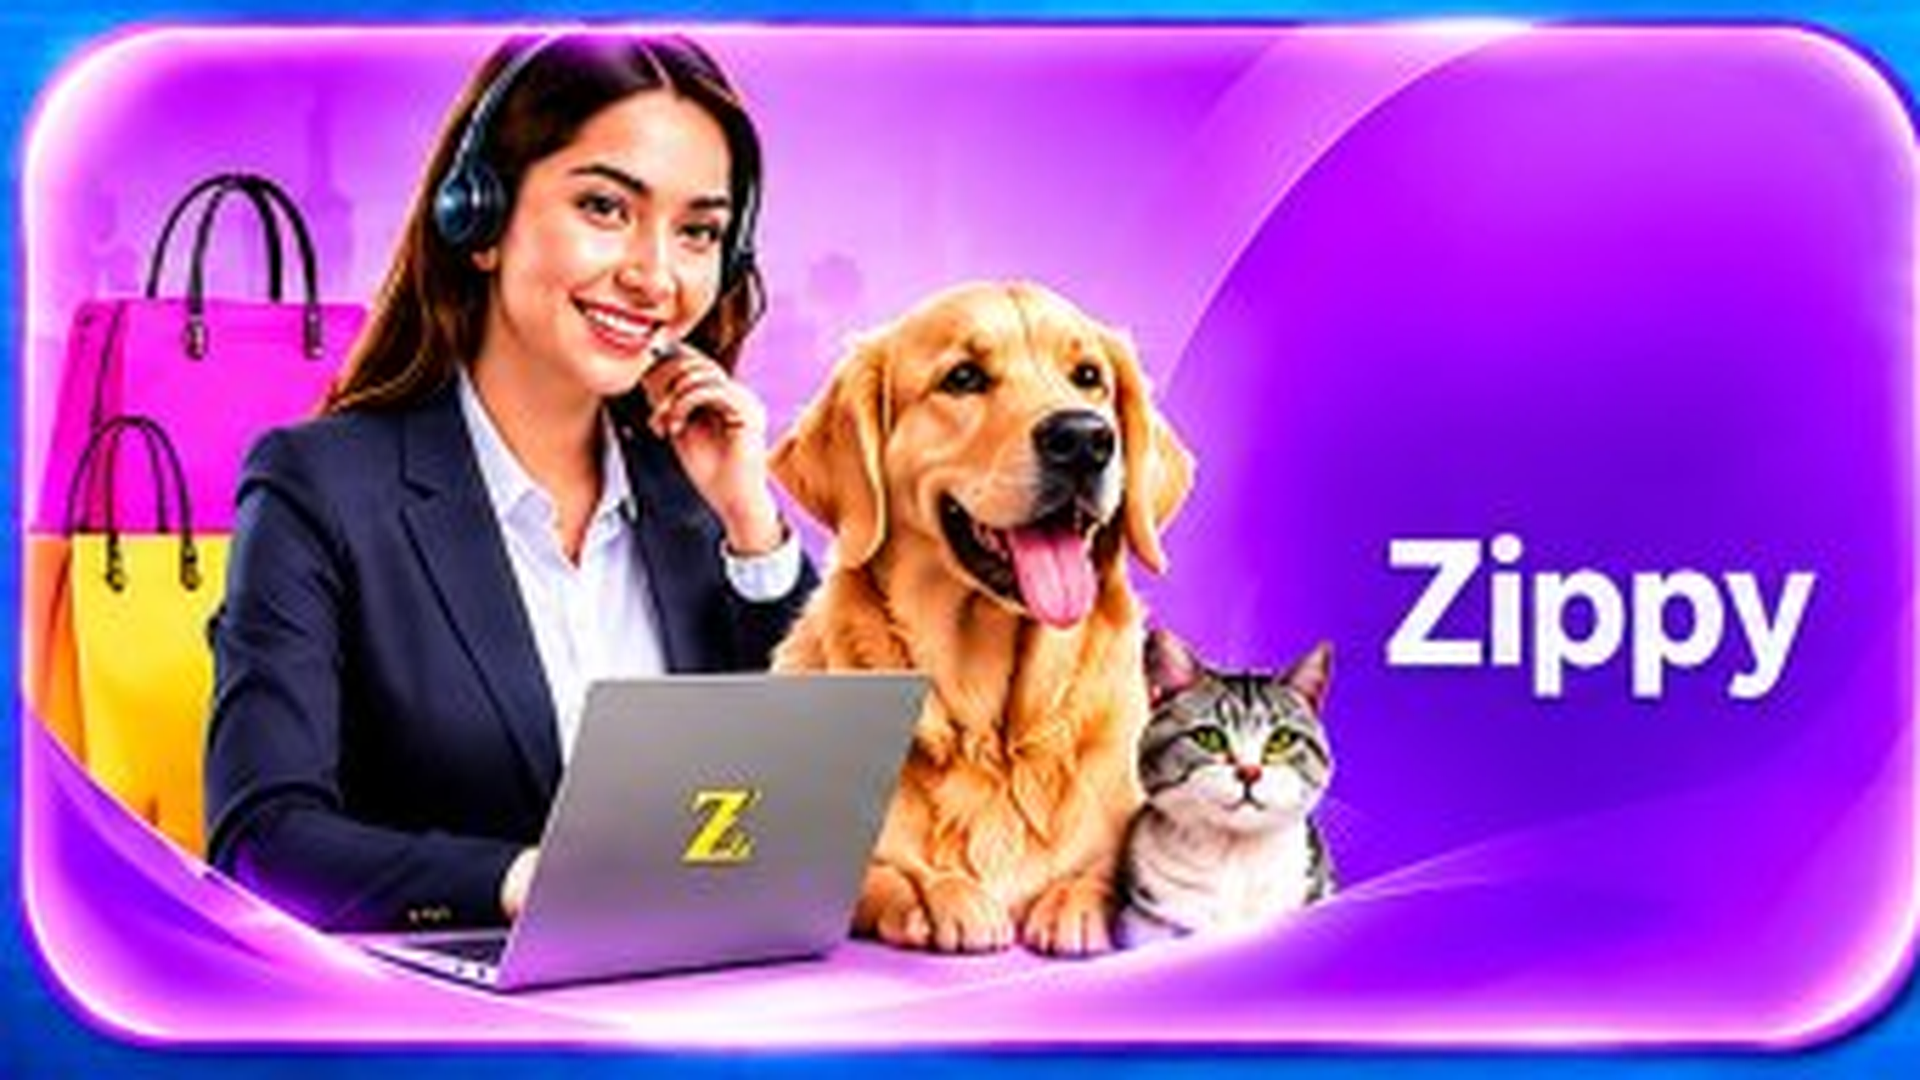
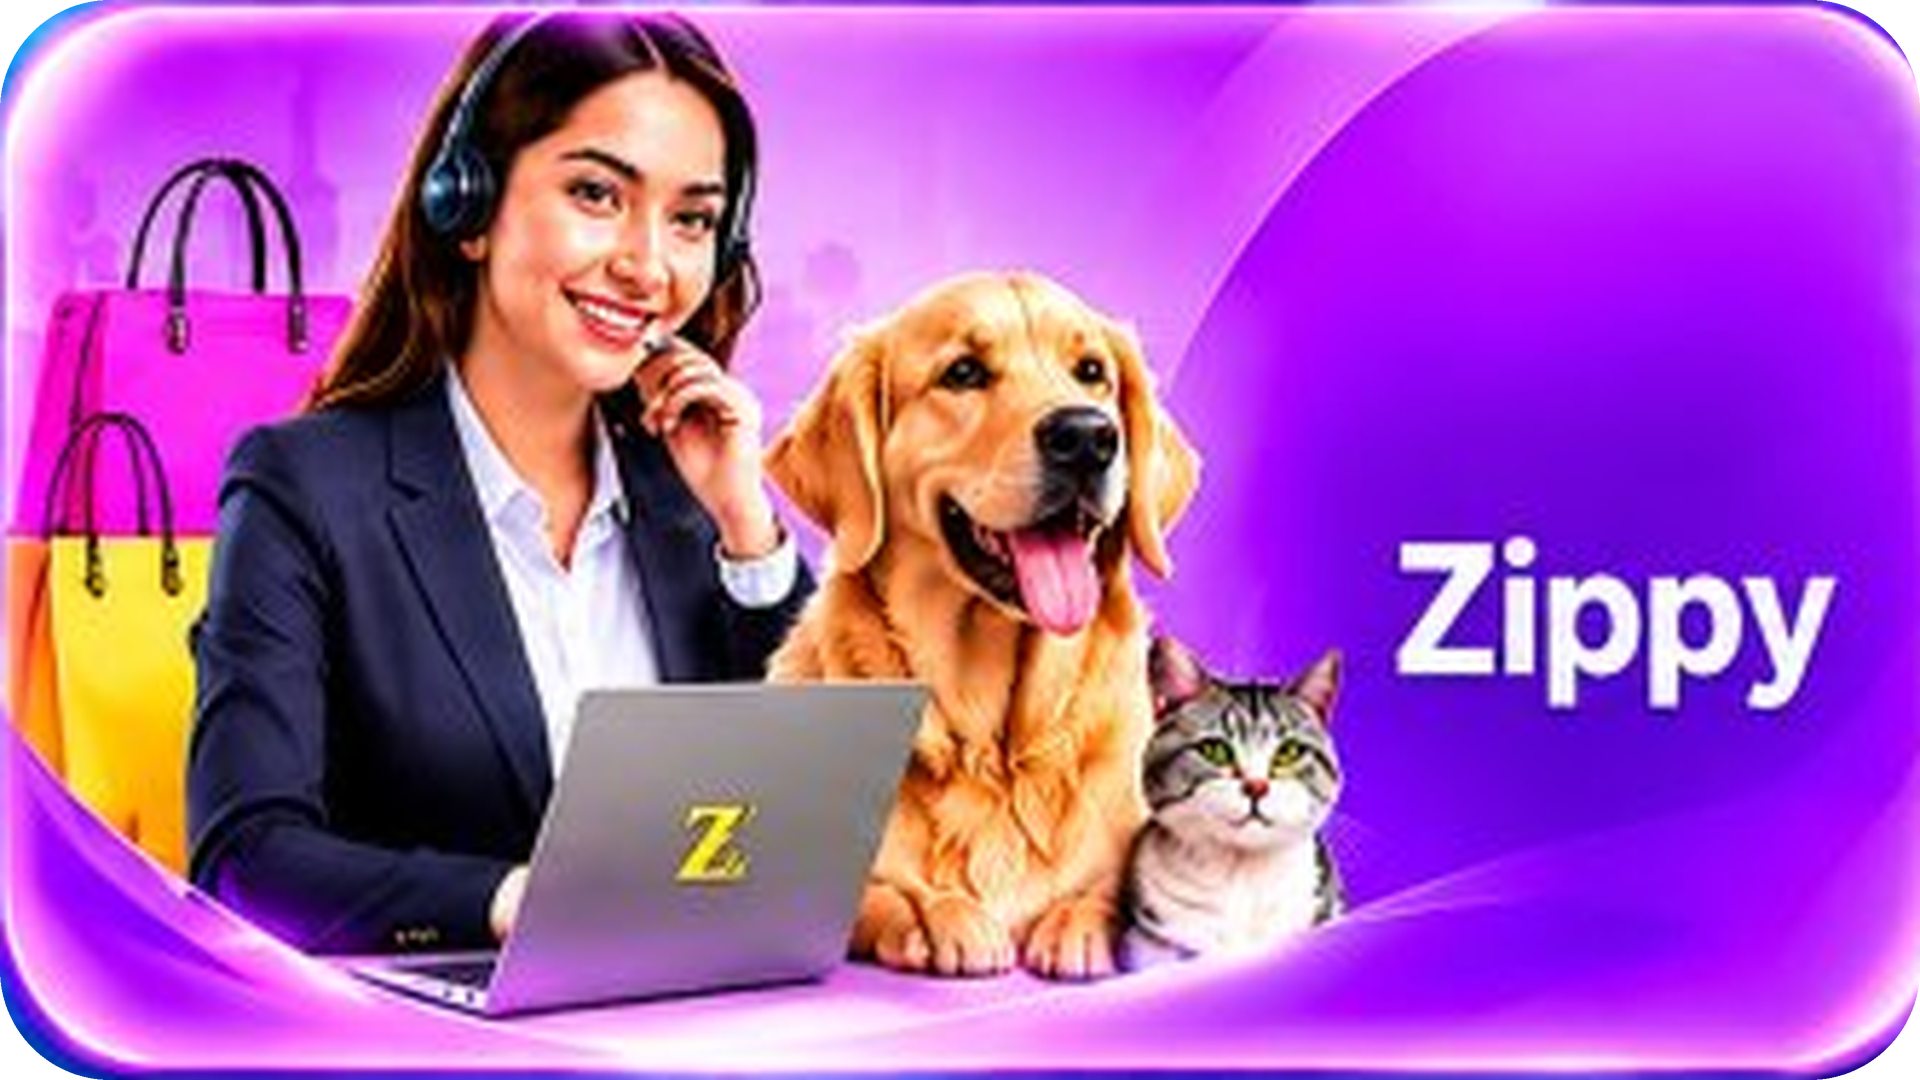
Polish card system: exact 3x2 CSS Grid, 20px border radius, 16px gaps, perfect image edge clipping, and soft neon glow

diff --git a/css/style.css b/css/style.css
@@ -171,11 +171,11 @@ html, body {
 .crm-cards-grid {
   width: 100%;
   display: grid;
-  grid-template-columns: repeat(3, 1fr);
-  /* Consistent horizontal and vertical gaps */
-  gap: clamp(10px, 1.4vh, 18px) clamp(12px, 1.5vw, 22px);
-  align-items: center;
+  grid-template-columns: repeat(3, minmax(0, 1fr));
+  gap: 16px;
+  align-items: stretch;
   justify-content: center;
+  box-sizing: border-box;
 }
 
 /* ==============================================================================
@@ -186,23 +186,24 @@ html, body {
   width: 100%;
   /* Strict 16:9 aspect ratio */
   aspect-ratio: 16 / 9;
-  border-radius: 22px;
+  border-radius: 20px;
   overflow: hidden;
+  box-sizing: border-box;
   display: block;
   text-decoration: none;
   cursor: pointer;
   outline: none;
   
-  /* Exactly ONE subtle outer border matching card accent glow and blending with background */
-  border: 2px solid rgba(255, 255, 255, 0.6);
+  /* Subtle, soft, professional border matching card accent glow */
+  border: 1.5px solid rgba(255, 255, 255, 0.45);
   box-shadow: 
-    0 10px 24px rgba(0, 0, 0, 0.35),
-    0 0 14px var(--card-glow);
+    0 8px 20px rgba(0, 0, 0, 0.28),
+    0 0 12px var(--card-glow);
   
   /* Smooth subtle hover zoom & glowing border transitions */
-  transition: transform 0.28s cubic-bezier(0.16, 1, 0.3, 1),
-              box-shadow 0.28s ease,
-              border-color 0.28s ease;
+  transition: transform 0.26s cubic-bezier(0.16, 1, 0.3, 1),
+              box-shadow 0.26s ease,
+              border-color 0.26s ease;
   will-change: transform;
 }
 
@@ -217,21 +218,22 @@ html, body {
   width: 100%;
   height: 100%;
   object-fit: cover;
+  border-radius: 18px;
   display: block;
-  border-radius: 22px;
   pointer-events: none;
-  transition: transform 0.35s ease;
+  transition: transform 0.32s ease;
+  image-rendering: -webkit-optimize-contrast;
 }
 
 /* ==============================================================================
    SUBTLE CARD HOVER GLOW & SMOOTH TRANSITIONS
    ============================================================================== */
 .crm-card:hover {
-  transform: translateY(-5px) scale(1.02);
-  border-color: var(--card-glow);
+  transform: translateY(-4px) scale(1.015);
+  border-color: rgba(255, 255, 255, 0.8);
   box-shadow: 
-    0 16px 36px rgba(0, 0, 0, 0.4),
-    0 0 24px var(--card-glow);
+    0 12px 28px rgba(0, 0, 0, 0.35),
+    0 0 18px var(--card-glow);
 }
 
 .crm-card:hover .card-bg-img {
@@ -361,7 +363,7 @@ html, body {
   }
   
   .crm-cards-grid {
-    grid-template-columns: repeat(2, 1fr);
+    grid-template-columns: repeat(2, minmax(0, 1fr));
     max-width: 680px;
     gap: 16px;
   }
@@ -370,7 +372,7 @@ html, body {
 /* Mobile Phones (Max 600px) */
 @media (max-width: 600px) {
   .crm-cards-grid {
-    grid-template-columns: 1fr;
+    grid-template-columns: minmax(0, 1fr);
     max-width: 360px;
     gap: 14px;
   }
